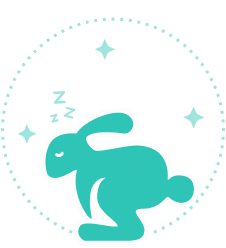
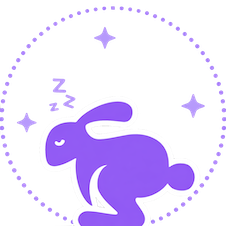
Sign Up

diff --git a/src/components/hopper/advice.component.tsx b/src/components/hopper/advice.component.tsx
@@ -14,9 +14,9 @@ export default function Advice() {
   const { user } = useMe();
 
   return (
-    <View className="w-full rounded-[20px] mt-6 p-[20px] justify-center border-[#2EC4B5] border-[1px]">
+    <View className="w-full rounded-[20px] mt-6 p-[20px] justify-center border-[#ABA5FA] border-[1px]">
       <HStack className="gap-3 items-center rounded-full">
-        <View>{user?.role === userRoles.USER_HOPPER ? <AvatarHopper width={92} height={92} /> : <Avatar width={92} height={92} />}</View>
+        <View>{user?.role === userRoles.USER_HOPPER ? <AvatarHopper width={92} height={92} /> : <AvatarHopper width={92} height={92} />}</View>
         <Box className="flex-1 gap-2">
           <Text textColor={Colors.SECONDARY} fontSize={18} fontWeight={600}>
             {user?.role === userRoles.USER_HOPPER ? t('home.hopper.advice.title', { ns: 'home' }) : t('home.hoppy.title', { ns: 'home' })}
